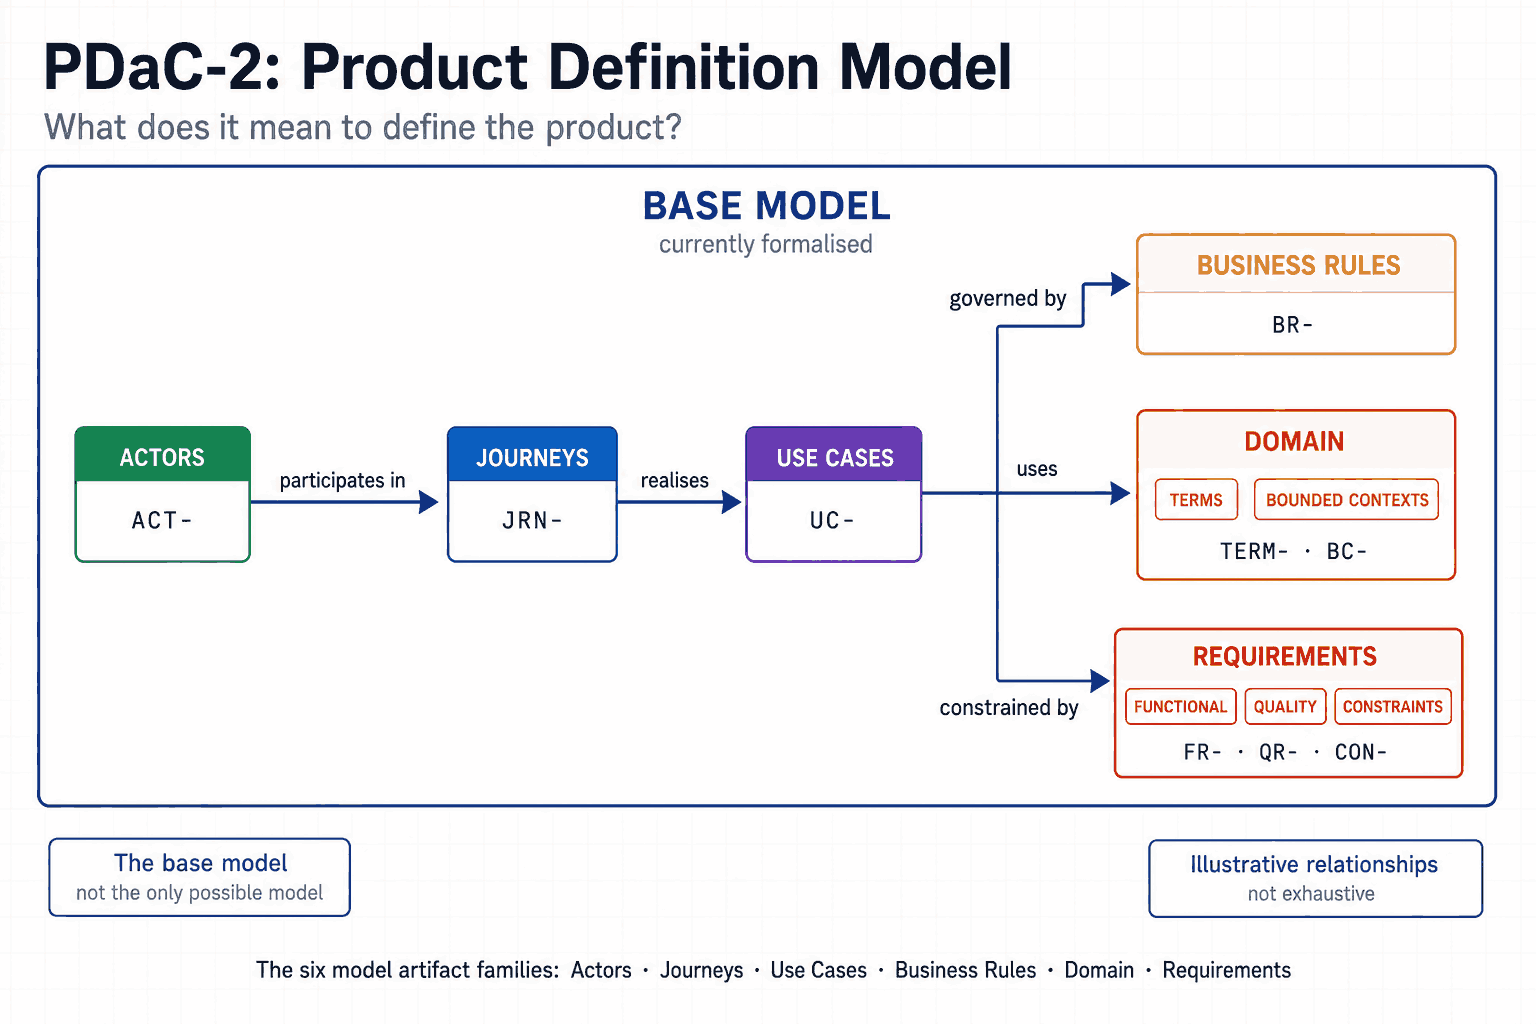
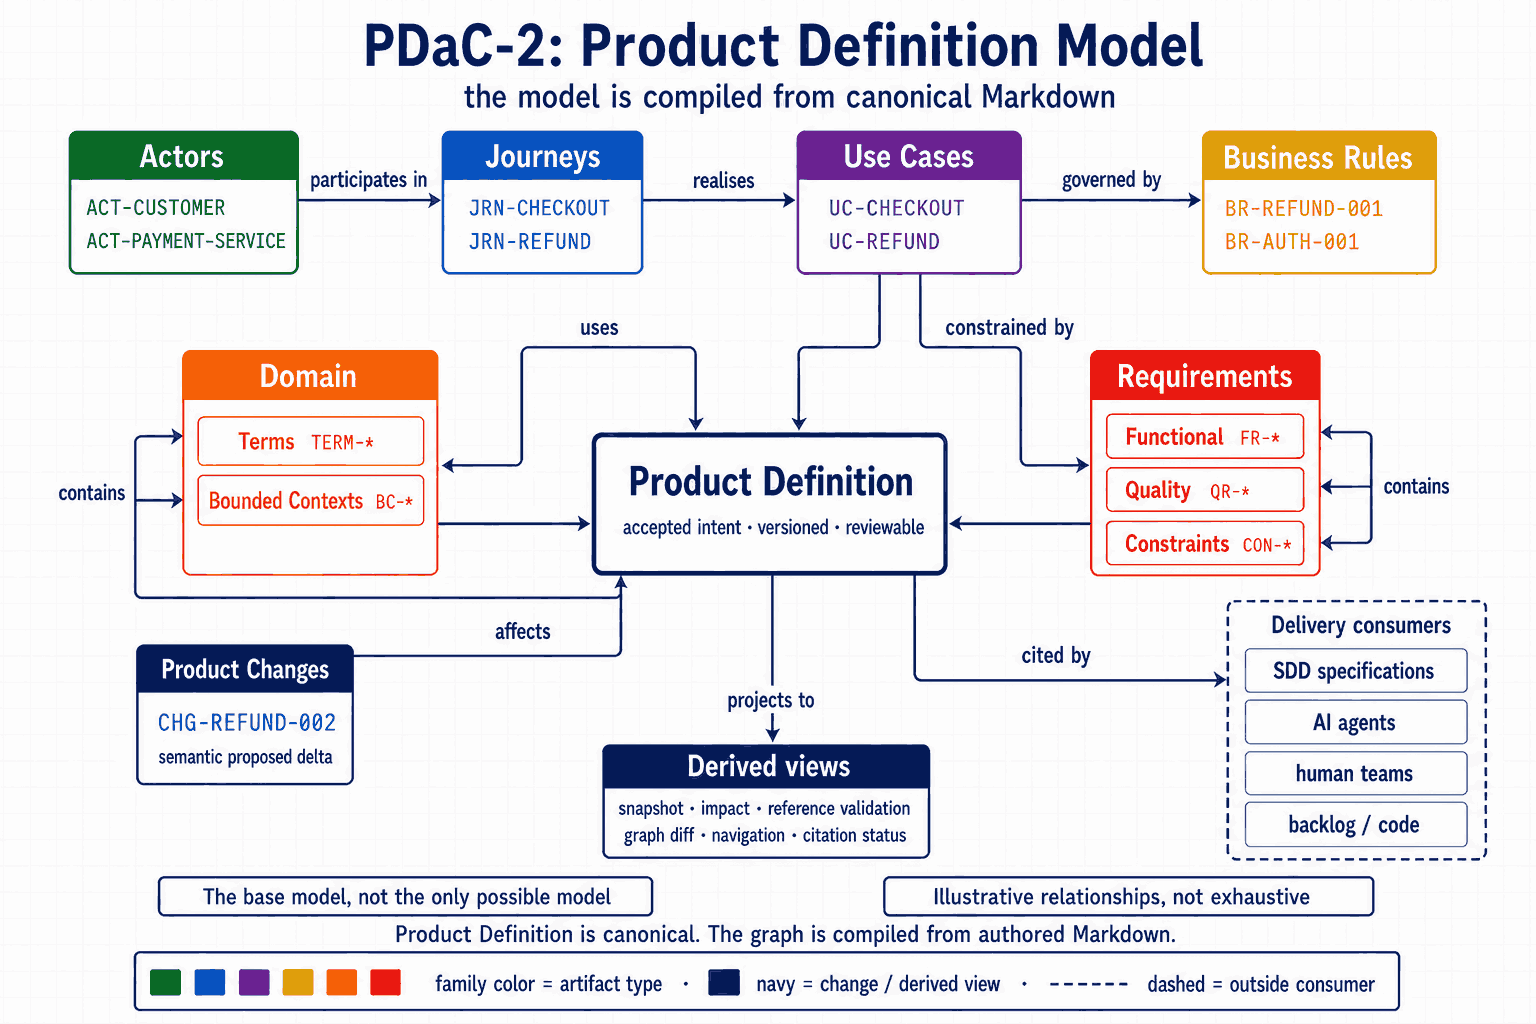
docs: redraw PDaC-2 around the Product Definition
The old figure showed six artifact families and three arrows, which left
the Product Definition itself absent from the diagram named after it. The
redraw puts it at the centre and shows what surrounds it: the Product
Change that is the one mechanism by which it moves, the derived views it
projects to, and the delivery consumers that cite it.

The alt text and caption are rewritten to match. They described a figure
that no longer exists, so a screen reader would have been given the wrong
diagram. The caption now names Product Changes and the Citation Contract
alongside Artifacts and Relationships, because the figure reaches into
those chapters and the diagram README requires a caption to name what is
authoritative for its subject.

The figure keeps the hedges the previous one carried deliberately, the
base model rather than the only possible model and illustrative rather
than exhaustive relationships, and its derived views now list the same
six the PDaC-3 figure names rather than a subset.

One detail is load bearing. The published PNG is reduced to a 16 colour
palette, and at that palette an amber close to the domain orange merges
with it, collapsing two artifact families onto one hue and leaving two
identical swatches in the legend. Business Rules is drawn as a
desaturated gold that survives the reduction, verified by sampling the
rendered pixels: the six family colours quantize to distinct values and
each legend swatch matches its own box.
[…]

diff --git a/spec/artifacts.md b/spec/artifacts.md
@@ -2,9 +2,9 @@
 
 This chapter defines the artifact types of the current product model, their frontmatter contracts, required body sections and lifecycle states. Product Changes are specified in their own [chapter](product-changes.md).
 
-![The six model artifact families and their prefixes: Actors (ACT-), Journeys (JRN-), Use Cases (UC-), Business Rules (BR-), Domain (Terms, TERM-, and Bounded Contexts, BC-) and Requirements (Functional, FR-, Quality, QR-, and Constraints, CON-). Illustrative arrows run from actors through journeys to use cases, and from use cases out to business rules, domain and requirements. The diagram is labelled as the base model, not the only possible model, with relationships marked illustrative and not exhaustive.](../assets/diagrams/pdac-2-product-definition-model.png)
+![The product definition model, subtitled: the model is compiled from canonical Markdown. Across the top, Actors (ACT-CUSTOMER, ACT-PAYMENT-SERVICE) participate in Journeys (JRN-CHECKOUT, JRN-REFUND), which realise Use Cases (UC-CHECKOUT, UC-REFUND), which are governed by Business Rules (BR-REFUND-001, BR-AUTH-001). At the centre sits the Product Definition, labelled accepted intent, versioned and reviewable. Use cases use the Domain, which contains Terms (TERM-) and Bounded Contexts (BC-), and are constrained by Requirements, which contains Functional (FR-), Quality (QR-) and Constraints (CON-). A Product Change, CHG-REFUND-002, marked a semantic proposed delta, affects the definition. The definition projects to derived views: snapshot, impact, reference validation, graph diff, navigation and citation status. A dashed arrow labelled cited by reaches outside to delivery consumers: SDD specifications, AI agents, human teams, and backlog or code. Two notes read: the base model, not the only possible model; and illustrative relationships, not exhaustive. The closing line reads: Product Definition is canonical, the graph is compiled from authored Markdown.](../assets/diagrams/pdac-2-product-definition-model.png)
 
-_Figure PDaC-2 - what does it mean to define the product? Non-normative; this chapter is authoritative for the types, and [Relationships](relationships.md) for the arrows._
+_Figure PDaC-2 - what does it mean to define the product? Non-normative; this chapter is authoritative for the types, [Relationships](relationships.md) for the arrows, [Product Changes](product-changes.md) for the change and the [Citation Contract](citation-contract.md) for the consumers._
 
 ## Common contract
 

diff --git a/CHANGELOG.md b/CHANGELOG.md
@@ -2,6 +2,10 @@
 
 All notable changes to the Product Definition as Code specification are documented here. The specification is versioned with semantic versioning, independently of any implementation.
 
+## [Unreleased]
+
+- Figure PDaC-2 redrawn. It now places the Product Definition at the centre of the model and shows what surrounds it: the Product Change that affects it, the derived views it projects to, and the delivery consumers that cite it. Its alt text and caption are rewritten to match, and the caption names Product Changes and the Citation Contract alongside Artifacts and Relationships. Non-normative; no chapter text changed.
+
 ## [0.1.0] - 2026-08-07
 
 - The specification defines the Product Definition as the accepted, versioned and validated product graph on the repository's canonical branch. It evolves through exactly one mechanism: a `Product Change`, a semantic delta of `add`, `modify` and `remove` operations, validated as an overlay, applied by an explicit human-triggered operation, and accepted through a reviewed merge. A pull request reviews and accepts a Product Change; it is not the Product Change (RFC #4).
